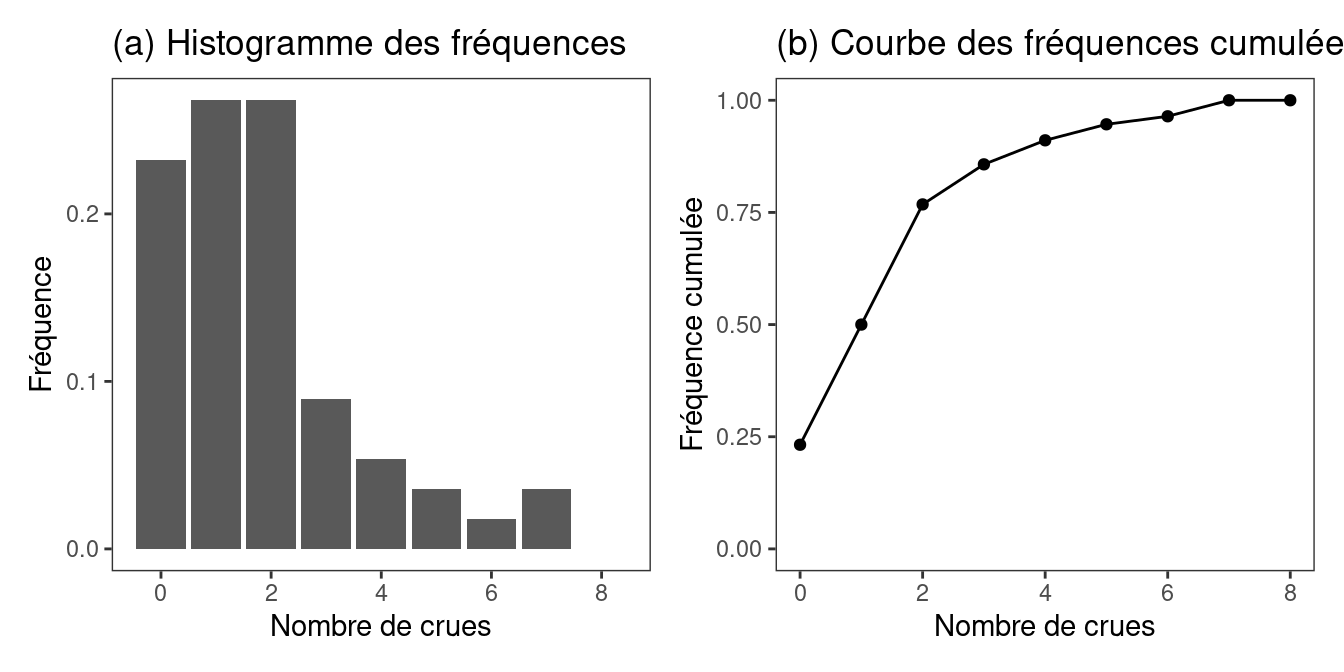
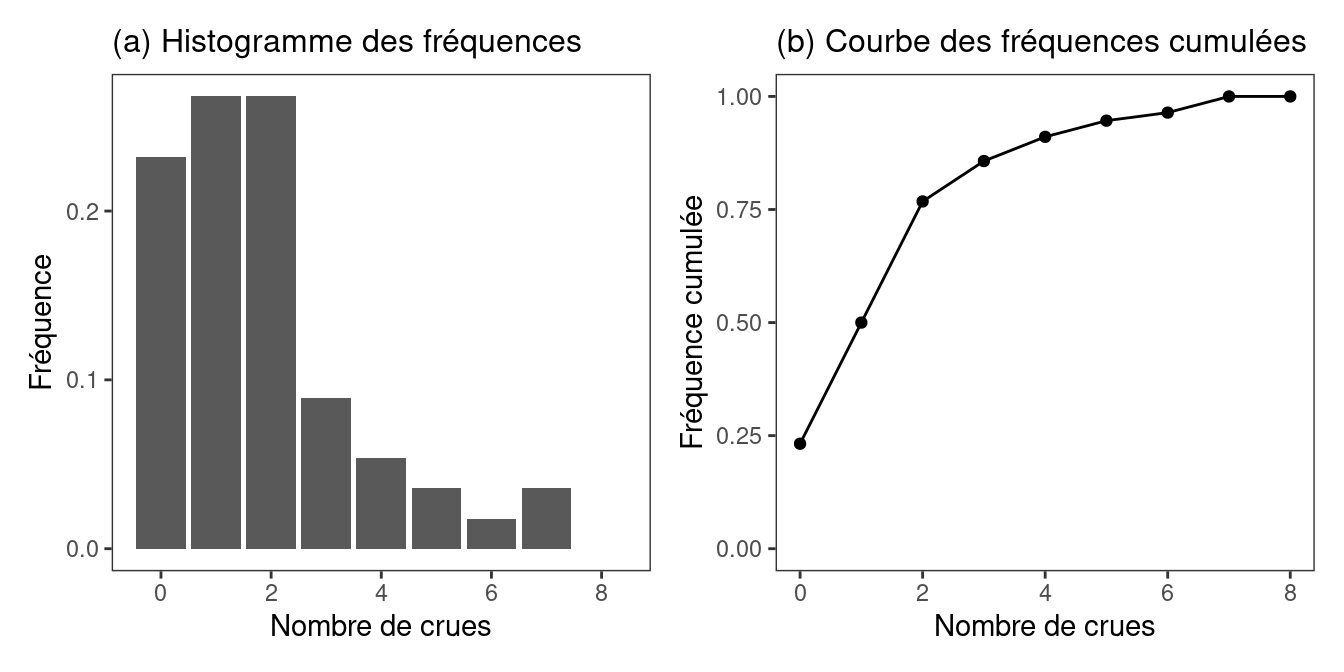
minor fix

diff --git a/docs/données-et-statistiques-descriptives.html b/docs/données-et-statistiques-descriptives.html
@@ -435,7 +435,7 @@ Il est également possible de cumuler ces fréquences par ordre croissant des va
 </tr>
 </tbody>
 </table>
-<p>Les chiffres calculés dans la Table <a href="données-et-statistiques-descriptives.html#tab:NcruesTable">1.1</a> peuvent être reprśentés graphiquement comme illustré en Figure <a href="données-et-statistiques-descriptives.html#fig:NcruesFig">1.10</a>: à gauche, l’histogramme consiste à représenter la fréquence (ou parfois l’effectif) associée à chaque valeur, tandis que le graphique de droite montre la courbe des fréquences cumulées.</p>
+<p>Les chiffres calculés dans la Table <a href="données-et-statistiques-descriptives.html#tab:NcruesTable">1.1</a> peuvent être représentés graphiquement comme illustré en Figure <a href="données-et-statistiques-descriptives.html#fig:NcruesFig">1.10</a>: à gauche, l’histogramme consiste à représenter la fréquence (ou parfois l’effectif) associée à chaque valeur, tandis que le graphique de droite montre la courbe des fréquences cumulées.</p>
 <div class="figure" style="text-align: center"><span style="display:block;" id="fig:NcruesFig"></span>
 <img src="_main_files/figure-html/NcruesFig-1.png" alt="Histogramme des fréquences et courbe des fréquences cumulées." width="110%" />
 <p class="caption">
@@ -451,9 +451,9 @@ Figure 1.10: Histogramme des fréquences et courbe des fréquences cumulées.
 <p>Le dernier point soulevé ci-dessus illustre une distinction importante. La question posée est en effet exprimée en termes de <em>probabilité</em>. Or, la réponse est donnée en termes de <em>fréquence</em>. Il se trouve que <strong>les deux notions ne sont pas identiques</strong>, ce qui explique la gêne exprimée dans le dernier point. Un événement peut très bien n’avoir jamais été observé (fréquence nulle), mais être de probabilité non-nulle ! La notion de fréquence se rapporte au monde des observations (qui sont en nombre limité), tandis que la notion de probabilité se rapporte à un monde plus théorique, gouverné par la théorie des probabilités, et que nous aborderons au chapitre suivant.</p>
 <p>L’exemple du nombre annuel de crues utilisé jusqu’ici est particulier car il utilise une variable discrète. Un second exemple correspondant au cas plus courant d’une variable hydrologique continue est à présent utilisé, en l’occurrence les débits journaliers maximum annuels pour l’Azergues à Lozanne. Les données sont représentées dans la Figure ci-dessous.</p>
 <div class="figure" style="text-align: center"><span style="display:block;" id="fig:maxanQt"></span>
-<img src="_main_files/figure-html/maxanQt-1.png" alt="Série chronologique des débits journaliers maxima annuels pour l'Azergues à Lozanne" width="100%" />
+<img src="_main_files/figure-html/maxanQt-1.png" alt="Série chronologique des débits journaliers maximum annuels pour l'Azergues à Lozanne" width="100%" />
 <p class="caption">
-Figure 1.11: Série chronologique des débits journaliers maxima annuels pour l’Azergues à Lozanne
+Figure 1.11: Série chronologique des débits journaliers maximum annuels pour l’Azergues à Lozanne
 </p>
 </div>
 
